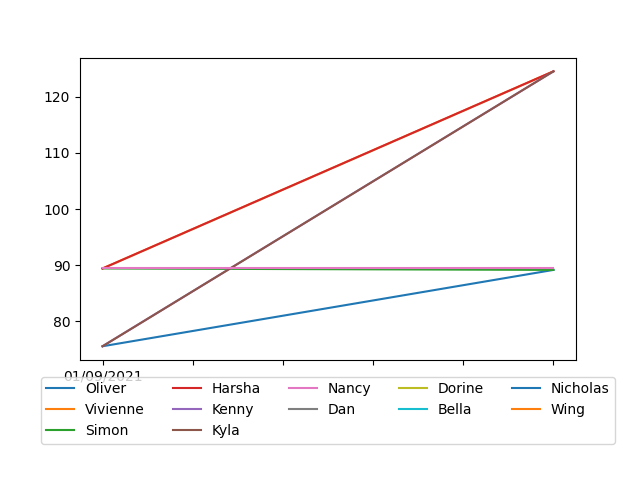
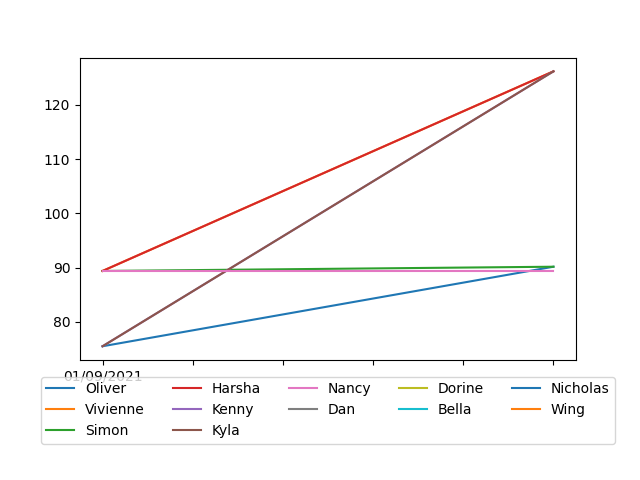
update rankings

diff --git a/README.md b/README.md
@@ -5,18 +5,18 @@
 
 | Player | ELO | Wins | Losses | Win % | Best Game |
 | --- | --- | --- | --- | --- | --- |
-| Kyla | 124.55 | 8 | 3 | 0.73 | Secret Hitler |
-| Dorine | 123.38 | 4 | 2 | 0.67 | 7 Wonders |
-| Oliver | 105.87 | 8 | 5 | 0.62 | Codenames |
-| Dan | 99.48 | 2 | 4 | 0.33 | Secret Hitler |
-| Kenny | 98.29 | 4 | 5 | 0.44 | Codenames |
+| Kyla | 126.18 | 8 | 3 | 0.73 | Secret Hitler |
+| Dorine | 119.87 | 4 | 2 | 0.67 | 7 Wonders |
+| Oliver | 104.89 | 8 | 5 | 0.62 | Codenames |
+| Dan | 101.36 | 2 | 4 | 0.33 | Wavelength |
+| Kenny | 99.96 | 4 | 5 | 0.44 | Codenames |
+| Harsha | 90.18 | 6 | 7 | 0.46 | Wavelength |
 | Nancy | 89.39 | 2 | 5 | 0.29 | Secret Hitler |
-| Harsha | 89.14 | 6 | 7 | 0.46 | Coup |
-| Nicholas | 87.98 | 1 | 2 | 0.33 | Secret Hitler |
-| Simon | 85.30 | 5 | 7 | 0.42 | Secret Hitler |
-| Vivienne | 81.03 | 4 | 9 | 0.31 | Wavelength |
-| Bella | 68.64 | 1 | 4 | 0.20 | Wavelength |
-| Wing | 68.64 | 1 | 4 | 0.20 | Wavelength |
+| Simon | 84.38 | 5 | 7 | 0.42 | Secret Hitler |
+| Nicholas | 82.11 | 1 | 2 | 0.33 | Secret Hitler |
+| Vivienne | 81.94 | 4 | 9 | 0.31 | Wavelength |
+| Bella | 63.48 | 1 | 4 | 0.20 | Wavelength |
+| Wing | 63.48 | 1 | 4 | 0.20 | Wavelength |
 
 ### Rankings over Time
 ![Image](rankings.png)
@@ -77,14 +77,14 @@
 
 | Player | ELO | Wins | Losses | Win % |
 | --- | --- | --- | --- | --- |
-| Kyla | 103.71  | 1 | 1 | 0.50 |
-| Harsha | 103.71  | 1 | 1 | 0.50 |
-| Vivienne | 103.71  | 1 | 1 | 0.50 |
-| Kenny | 103.71  | 1 | 1 | 0.50 |
-| Dan | 103.71  | 1 | 1 | 0.50 |
-| Simon | 96.29  | 1 | 1 | 0.50 |
-| Oliver | 96.29  | 1 | 1 | 0.50 |
-| Wing | 96.29  | 1 | 1 | 0.50 |
-| Dorine | 96.29  | 1 | 1 | 0.50 |
-| Bella | 96.29  | 1 | 1 | 0.50 |
-| Nicholas | 96.29  | 1 | 1 | 0.50 |
+| Vivienne | 111.00  | 1 | 1 | 0.50 |
+| Kenny | 111.00  | 1 | 1 | 0.50 |
+| Dan | 111.00  | 1 | 1 | 0.50 |
+| Kyla | 111.00  | 1 | 1 | 0.50 |
+| Harsha | 111.00  | 1 | 1 | 0.50 |
+| Simon | 89.00  | 1 | 1 | 0.50 |
+| Oliver | 89.00  | 1 | 1 | 0.50 |
+| Wing | 89.00  | 1 | 1 | 0.50 |
+| Dorine | 89.00  | 1 | 1 | 0.50 |
+| Bella | 89.00  | 1 | 1 | 0.50 |
+| Nicholas | 89.00  | 1 | 1 | 0.50 |
